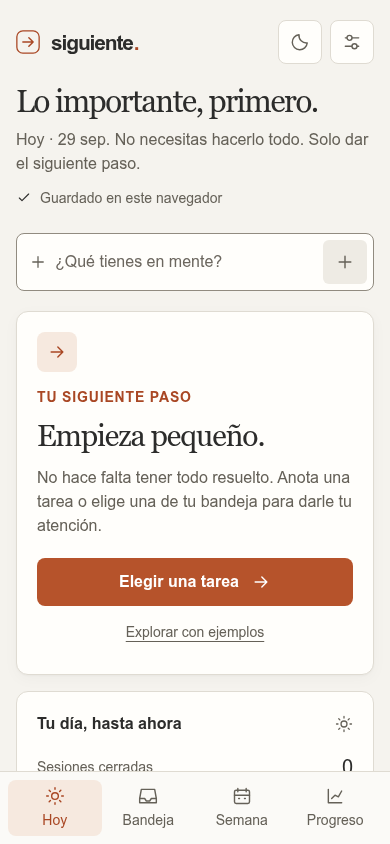
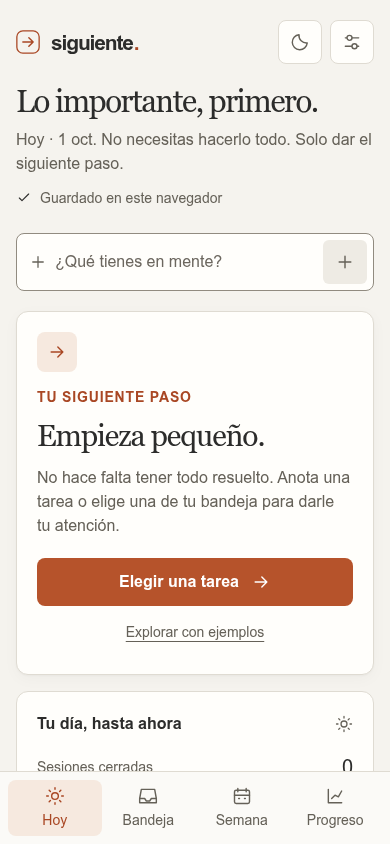
Actualizar documentación, capturas y propuestas
- README: 57 pruebas, cómo recorrer las páginas de QA con run-qa-cdp.cjs y
  la CSP con el icono en línea.
- QA.md: resultados de esta entrega (164 comprobaciones por tamaño,
  emulación táctil, axe-core sin incumplimientos, tiempos con 3000 sesiones
  y comparación de 152 capturas).
- MEJORAS.md: la n.º 1 ya estaba hecha, rutas actualizadas a src/, avance
  de la n.º 5 (icono) y tres propuestas nuevas sin implementar (7 a 9).
- previews/: capturas regeneradas de Hoy vacío a 390 × 844 y 1440 × 900.

Changed region(s): [[0.0308, 0.154, 0.9538, 0.2156], [0.0923, 0.6161, 0.3077, 0.6469], [0.8615, 0.5853, 0.8923, 0.6161]]

diff --git a/QA.md b/QA.md
@@ -2,21 +2,43 @@
 
 ## Pruebas automatizadas
 
-- **55 pruebas de modelo y contrato remoto: aprobadas, 0 fallos.** Se ejecutaron con Node sobre el código fuente incluido. Las pruebas remotas usan fetch simulado; no contactan con ningún servidor.
-- **Recorrido de interfaz en Chromium, 320 × 700, 390 × 844, tablet 768 × 1024 y escritorio 1440 × 900: 147 comprobaciones aprobadas en cada tamaño.** Incluye captura, errores, definición de acción, persistencia, tema, sesiones, pausa/reanudación, cierre, búsqueda mensual, texto HTML no ejecutable, edición, reprogramación, recuperación, deshacer, copias JSON, confirmaciones y búsqueda de títulos históricos.
+- **57 pruebas de modelo y contrato remoto: aprobadas, 0 fallos** (`node --test tests/*.test.cjs`). Se ejecutaron con Node sobre el código fuente incluido. Las pruebas remotas usan fetch simulado; no contactan con ningún servidor. Dos de ellas fijan que las consultas del historial devuelven el mismo orden que antes de optimizarlas, incluidos los empates de hora.
+- **39 pruebas del Worker: aprobadas** (`node worker.tests.js`), incluida la política de `public/_headers` (cerrada por defecto; imágenes solo propias o `data:` para el icono en línea).
+- **Recorrido de interfaz en Chromium, 320 × 700, 390 × 844, tablet 768 × 1024 y escritorio 1440 × 900: 164 comprobaciones aprobadas en cada tamaño.** Incluye captura, errores, definición de acción, persistencia, tema, sesiones, pausa/reanudación, cierre, búsqueda mensual, texto HTML no ejecutable, edición, reprogramación, recuperación, deshacer, copias JSON, confirmaciones y búsqueda de títulos históricos. También comprueba el título de la pestaña por sección y durante la sesión, que los errores marcan su campo (`aria-invalid`, `aria-describedby`) y le dan el foco, el anuncio de resultados de búsqueda para lectores de pantalla, los límites del calendario del registro y el foco conservado al cambiar de mes, que tema y ajustes no aparecen duplicados a la vista, el icono en línea y el color de la barra del navegador según el tema.
+- Los mismos recorridos se repitieron a 390 × 844 y 768 × 1024 con emulación táctil (`isMobile`, `hasTouch`): aprobados. Con pantalla táctil la lista de atajos de teclado de Ajustes se oculta; con ratón o trackpad se muestra.
 - Escenarios adicionales aprobados: recarga real, cuota de almacenamiento, formato incompatible, cambios de otra pestaña, paginación y expansión/restauración del registro para imprimir.
 - En los escenarios comprobados no se registraron excepciones, errores de consola ni recursos fallidos. El modo local no solicita `/api/state`.
+- El ejecutor sin dependencias `tests/run-qa-cdp.cjs` se probó también en Linux con Chromium (`QA_CHROME`).
+
+## Accesibilidad automática
+
+axe-core 4.13 (reglas WCAG 2.0/2.1/2.2 A y AA y buenas prácticas) sobre los 19 escenarios de `.qa/`, a 390 y 1440 px, en tema claro y oscuro: **0 incumplimientos**. Una herramienta automática no sustituye la prueba con un lector de pantalla real.
+
+## Rendimiento con mucho historial
+
+Con 400 tareas y 3000 sesiones, CPU ralentizada 4× en Chromium a 390 × 844 (render + maquetación, mediana de varias pasadas):
+
+| Vista | Antes | Ahora |
+| --- | --- | --- |
+| Bandeja (abrir) | ≈ 200 ms | ≈ 50 ms |
+| Bandeja (cada tecla en la búsqueda) | ≈ 190 ms | ≈ 45 ms |
+| Semana | ≈ 65 ms | ≈ 35 ms |
+| Progreso | ≈ 60 ms | ≈ 60 ms |
+
+Los resultados de las consultas no cambian; solo se ordena lo que se va a mostrar.
 
 ## Mobile-first
 
-- La base CSS corresponde al teléfono; las mejoras de tablet y escritorio usan únicamente `min-width` a 640, 1024 y 1280 px.
+- La base CSS corresponde al teléfono; las mejoras de tablet y escritorio usan únicamente `min-width` a 640, 1024 y 1280 px. La única otra consulta de medios nueva es de capacidad (`hover: hover` y `pointer: fine`), no de anchura.
 - Se comprobó que la navegación móvil queda fuera del área de contenido, no existe desplazamiento horizontal y los objetivos de navegación miden al menos 44 × 44 px.
-- Campos de 16 px; botones principales de ancho completo; áreas seguras contempladas. Portada y sesión más compactas para favorecer el primer viewport.
+- Campos de 16 px; botones principales de ancho completo; áreas seguras contempladas. Portada y sesión más compactas para favorecer el primer viewport; una acción muy larga (más de 180 caracteres) usa un titular más pequeño para que "Empezar sesión" siga a la vista.
 - `interactive-widget=resizes-content` solicita ajustar el viewport con el teclado cuando el navegador lo soporta. No se comprobó un teclado físico o el teclado de un dispositivo real.
 
 ## Revisión de presentación
 
 Se revisaron capturas de Hoy, Bandeja, Semana, Progreso, edición, ajuste, reprogramación, sesión activa/pausada, cierre y errores, Ajustes e importación. También se revisaron apariencias clara/oscura, pantalla de 320 px, textos largos y controles de sesión activos/pausados. El fallback sin JavaScript se conserva de la entrega anterior.
+
+Para esta entrega se compararon 152 capturas deterministas (19 escenarios × 4 tamaños × 2 temas, reloj fijo) antes y después de cada cambio. Las diferencias son solo las buscadas: titulares y párrafos sin palabras huérfanas, mes del registro escrito como en español ("Octubre de 2026"), flechas e icono de búsqueda en Progreso, borde rojo en el campo con error y, en escritorio, el encabezado sin los botones que ya están en la barra lateral. La fusión de reglas CSS repetidas no cambió ningún píxel.
 
 Las páginas largas se desplazan dentro del área principal en móvil, manteniendo la navegación inferior fuera del contenido. El desplazamiento vertical es intencional. Las etiquetas solo para lectores de pantalla se recortan deliberadamente; no representan desbordamientos visuales.
 
@@ -26,4 +48,4 @@ Los pares comprobados de texto, acciones, estados y campos superan los umbrales 
 
 ## Límites de la validación
 
-No se probó Safari/Firefox, un backend real, el diálogo nativo de impresión ni un lector de pantalla específico. La prueba de impresión verifica que se incluyan los registros filtrados y que vuelva la paginación; no certifica un dispositivo físico de impresión.
+No se probó Safari/Firefox, un backend real, el diálogo nativo de impresión ni un lector de pantalla específico. La prueba de impresión verifica que se incluyan los registros filtrados y que vuelva la paginación; no certifica un dispositivo físico de impresión. El icono de la pestaña se comprobó en el HTML generado; su aspecto en cada navegador no se verificó a mano.

diff --git a/MEJORAS.md b/MEJORAS.md
@@ -7,16 +7,19 @@ regla técnica de cero dependencias. El dueño decide qué pasa a una fase.
 
 ---
 
-## 1. Total de minutos del día en la vista Semana
+## 1. Total de minutos del día en la vista Semana (ya presente en el frontend mobile-first)
 
+- **Estado**: la vista Semana actual muestra bajo cada día con sesiones una cifra
+  neutra ("35 min registrados") calculada con `sessionsTotalDuration`; los días
+  sin sesiones no llevan cifra.
 - **Problema**: Semana lista las sesiones de cada día, pero para saber "¿cuánto
   trabajé el martes?" hay que sumar a mano las duraciones.
 - **Propuesta**: junto a la fecha de cada día, una cifra neutra con el total
   del día (p. ej. "martes 23 · 1 h 45 m"), calculada con `sessionDuration`
   sobre las sesiones ya guardadas. Un día sin sesiones sigue mostrándose como
   tal, sin cifra y sin carga negativa.
-- **Archivos**: `public/core.js` (una consulta `dayTotals`), `public/index.html`
-  (render), `public/tests.js` (3–4 pruebas).
+- **Archivos**: `src/core.js` (consulta), `src/app.js` (render),
+  `tests/core.test.cjs` (pruebas).
 - **Esfuerzo**: pequeño (S).
 
 ## 2. Buscador en el registro de Progreso (implementada en Fase 7)
@@ -27,7 +30,7 @@ regla técnica de cero dependencias. El dueño decide qué pasa a una fase.
   tarea, resultado o siguiente paso, y dos flechas de mes para acotar por fecha.
   Solo lectura: filtra lo que ya se pinta, no toca el estado ni añade casos de
   uso de dominio.
-- **Archivos**: `public/index.html` (campo + filtro en el render).
+- **Archivos**: `src/app.js` (campo + filtro en el render).
 - **Esfuerzo**: pequeño-medio (S/M).
 
 ## 3. Atajo de teclado para capturar desde cualquier vista (implementada en Fase 7)
@@ -37,7 +40,7 @@ regla técnica de cero dependencias. El dueño decide qué pasa a una fase.
 - **Propuesta**: extender los atajos de Fase 5 con la tecla `n` que
   lleve el foco al campo de captura aunque se esté en Bandeja, Semana o
   Progreso. Si hay una sesión abierta con confirmación pendiente, no interfiere.
-- **Archivos**: `public/index.html` (manejador de teclado existente).
+- **Archivos**: `src/app.js` (manejador de teclado existente).
 - **Esfuerzo**: pequeño (S).
 
 ## 4. Impresión del registro (hoja de papel) (implementada en Fase 7)
@@ -48,18 +51,21 @@ regla técnica de cero dependencias. El dueño decide qué pasa a una fase.
 - **Propuesta**: una hoja de estilos `@media print` que deje el registro en una
   columna limpia (fecha, tarea, duración, resultado, siguiente paso) y oculte
   navegación y botones. El propio navegador hace el PDF. Cero JavaScript.
-- **Archivos**: `public/index.html` (bloque `@media print`).
+- **Archivos**: `src/styles.css` (bloque `@media print`).
 - **Esfuerzo**: pequeño (S).
 
 ## 5. Manifest de PWA para el icono en "Añadir a pantalla de inicio"
 
 - **Problema**: el README indica añadir la URL al inicio del celular, pero el
   icono resultante es una captura genérica de la página.
+- **Avance**: la pestaña ya tiene icono propio (la flecha de la marca sobre
+  terracota, PNG en línea generado por `build.py`; la CSP de `public/_headers`
+  admite `img-src data:` para mostrarlo). Falta el manifest.
 - **Propuesta**: un `manifest.webmanifest` mínimo servido por el Worker (nombre,
-  colores del tema taller/terracota, icono inline en data-URL) y la etiqueta
-  correspondiente en `index.html`. Sin service worker: la app sigue sin
-  funcionar offline en la URL (como hoy) y no se promete lo que no hay.
-- **Archivos**: `worker.js` (servir el manifest), `public/index.html` (etiqueta).
+  colores crema/terracota del tema, el mismo icono a 192 y 512 px) y la
+  etiqueta correspondiente que genera `build.py`. Sin service worker: la app
+  sigue sin funcionar offline en la URL (como hoy) y no se promete lo que no hay.
+- **Archivos**: `worker.js` (servir el manifest), `build.py` (etiqueta e icono).
 - **Esfuerzo**: medio (M).
 
 ## 6. Chequeo de integridad en Importar (implementada en Fase 7)
@@ -70,5 +76,38 @@ regla técnica de cero dependencias. El dueño decide qué pasa a una fase.
   Importar avisa "Este archivo es de una versión más nueva de Siguiente.
   Actualiza la app antes de importarlo." y lo rechaza siempre. Solo cambia el
   aviso de la interfaz; sin confirmación ni migración nueva.
-- **Archivos**: `public/index.html` (aviso en el flujo de Importar).
+- **Archivos**: `src/app.js` (aviso en el flujo de Importar).
 - **Esfuerzo**: pequeño (S).
+
+## 7. Un solo acento por pantalla también en Bandeja
+
+- **Problema**: cada tarea pendiente de Bandeja lleva su propio botón
+  "Elegir para hoy" relleno en terracota. Con varias tareas, el acento se
+  repite en toda la lista y rompe la regla visual "el acento se gasta en un solo
+  sitio principal por pantalla".
+- **Propuesta**: en la lista, "Elegir para hoy" con el estilo sereno
+  (`btn--quiet`) y el relleno terracota solo cuando la Bandeja tiene una única
+  tarea lista para elegir, o nunca. Sin cambiar textos ni flujo.
+- **Archivos**: `src/app.js` (clase del botón), `src/styles.css` si hace falta.
+- **Esfuerzo**: pequeño (S). Es una decisión de lenguaje visual: la toma el dueño.
+
+## 8. Flecha propia en el selector de estado de Bandeja
+
+- **Problema**: el `<select>` de estado usa la flecha nativa de cada sistema;
+  es el único control que no sigue el trazo de los iconos propios.
+- **Propuesta**: `appearance: none` y una flecha dibujada con CSS (bordes de un
+  pseudoelemento en un contenedor), sin SVG en `data:` para no introducir URLs
+  de espacio de nombres en `src/`. Conservar el foco visible y el tamaño de
+  16 px.
+- **Archivos**: `src/styles.css`, `src/app.js` (contenedor del select).
+- **Esfuerzo**: pequeño (S).
+
+## 9. Avisos breves sin mover su región en el DOM
+
+- **Problema**: el aviso breve (`#announcement`) se reubica dentro de la vista
+  en cada repintado. Algunos lectores de pantalla dejan de anunciar una región
+  `aria-live` que cambia de sitio.
+- **Propuesta**: dejar `#announcement` fijo en `body` y colocarlo solo con CSS;
+  los anuncios que no necesitan verse ya usan la región fija `#sr-status`.
+- **Archivos**: `src/app.js` (render), `src/styles.css` (posición del aviso).
+- **Esfuerzo**: pequeño (S). Requiere probarlo con VoiceOver y NVDA.

diff --git a/README.md b/README.md
@@ -41,7 +41,8 @@ siguiente/
 │   ├── core.test.cjs      # pruebas del modelo (node:test)
 │   ├── remote.test.cjs    # pruebas de la API con fetch simulado
 │   ├── ui.test.js         # recorridos automatizados en el navegador
-│   └── make-qa-pages.py   # genera páginas aisladas de prueba en .qa/
+│   ├── make-qa-pages.py   # genera páginas aisladas de prueba en .qa/
+│   └── run-qa-cdp.cjs     # abre una página de .qa/ en Chrome sin ventana y lee QA PASS/FAIL
 ├── build.py           # genera public/index.html desde src/ (solo concatenación)
 ├── previews/          # capturas de la interfaz
 ├── QA.md              # alcance y resultados de comprobación de la entrega
@@ -63,7 +64,7 @@ Pruebas del modelo y del cliente remoto, con Node 18 o superior, sin instalar
 paquetes:
 
 ```bash
-node --test tests/*.test.cjs   # 55 pruebas
+node --test tests/*.test.cjs   # 57 pruebas
 node worker.tests.js           # 39 pruebas del Worker
 ```
 
@@ -71,6 +72,15 @@ Las páginas de QA del navegador se generan con `python tests/make-qa-pages.py`
 en `.qa/` (claves `siguiente.qa.*`, datos ficticios, sincronización
 desactivada). Cada prueba se abre en un perfil temporal aislado; el marcador
 `QA PASS` en el título confirma que el recorrido llegó al final. Ver `QA.md`.
+
+Para recorrerlas sin instalar nada, sirve `.qa/` con cualquier servidor estático
+y abre cada página con el ejecutor incluido (`QA_CHROME` indica la ruta de
+Chrome o Chromium si no es la de Windows por defecto):
+
+```bash
+python -m http.server 8790 -d .qa
+node tests/run-qa-cdp.cjs http://localhost:8790/ui-workflow.html
+```
 
 ## Tus datos
 
@@ -153,8 +163,9 @@ restaurar:
 
 `public/_headers` añade a los estáticos `X-Content-Type-Options`,
 `X-Frame-Options`, `Referrer-Policy` y una `Content-Security-Policy` cerrada:
-solo scripts y estilos propios o en línea, `connect-src 'self'`, sin marcos ni
-formularios. `index.html` además lleva la misma CSP en una etiqueta `<meta>`,
+solo scripts y estilos propios o en línea, imágenes propias o `data:` (el icono
+de la pestaña va en línea dentro de `index.html`), `connect-src 'self'`, sin
+marcos ni formularios. `index.html` además lleva la misma CSP en una etiqueta `<meta>`,
 así la protección también aplica al abrirlo como archivo local. `file://` no
 recibe las cabeceras: solo las aplica Cloudflare.
 
